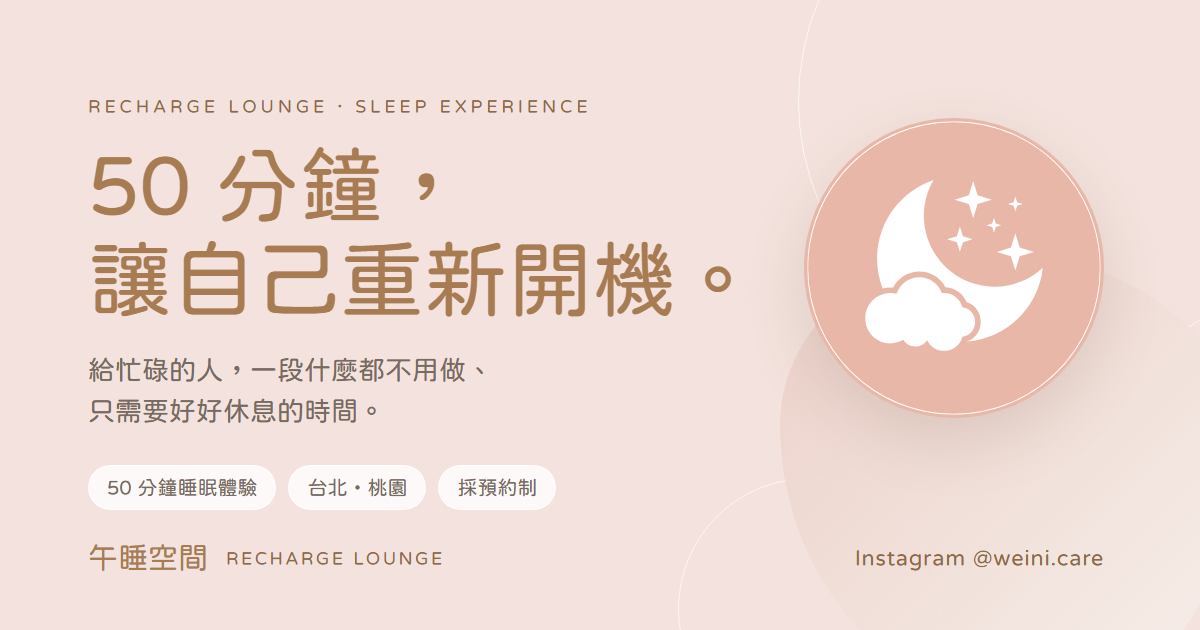
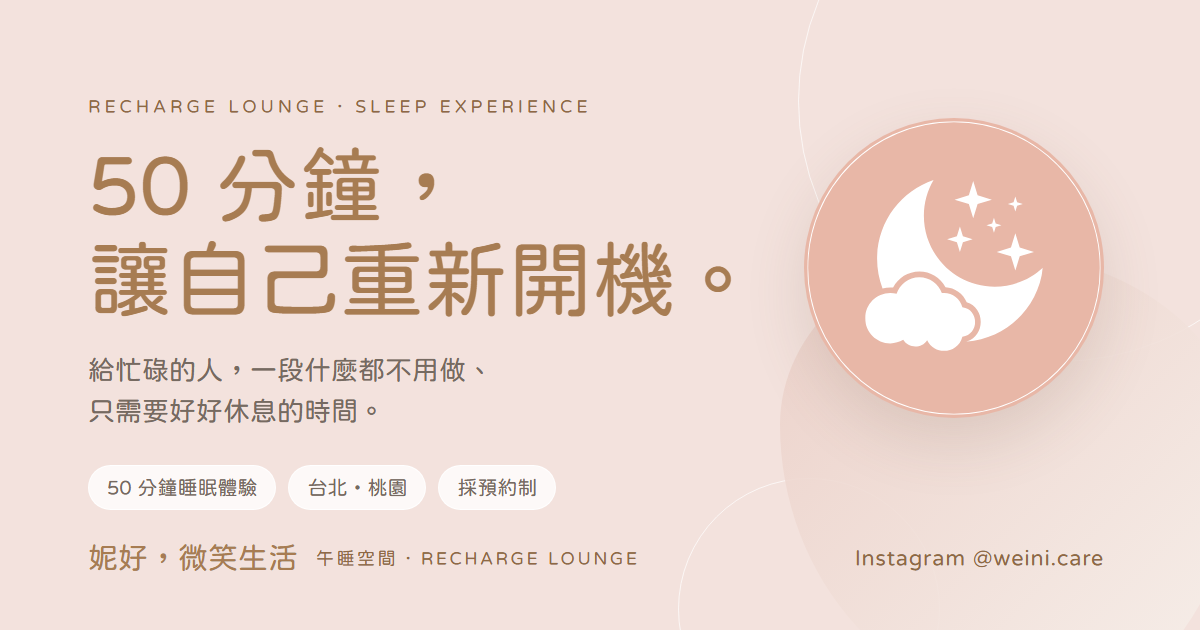
品牌名稱改為「妮好，微笑生活｜午睡空間」
抬頭、title、OG、footer、隱私頁、404、README 與分享圖一併更新

Changed region(s): [[0.0617, 0.8444, 0.5242, 0.9048]]

diff --git a/index.html b/index.html
@@ -3,14 +3,14 @@
 <head>
   <meta charset="utf-8">
   <meta name="viewport" content="width=device-width, initial-scale=1">
-  <title>午睡空間｜Recharge Lounge</title>
-  <meta name="description" content="午睡空間｜50 分鐘沉浸式睡眠體驗。台北・桃園預約制空間，給忙碌的現代人一段真正可以放下工作的休息時間。">
+  <title>妮好，微笑生活｜午睡空間</title>
+  <meta name="description" content="妮好，微笑生活｜午睡空間。50 分鐘沉浸式睡眠體驗。台北・桃園預約制空間，給忙碌的現代人一段真正可以放下工作的休息時間。">
   <meta name="theme-color" content="#F3E2DD">
 
   <!-- Open Graph / 社群分享 -->
   <meta property="og:type" content="website">
   <meta property="og:locale" content="zh_TW">
-  <meta property="og:site_name" content="午睡空間 Recharge Lounge">
+  <meta property="og:site_name" content="妮好，微笑生活｜午睡空間">
   <meta property="og:title" content="午睡空間｜50 分鐘，讓自己重新開機。">
   <meta property="og:description" content="給忙碌的現代人、創業者與專業工作者，一段真正可以把事情放下來的休息時間。台北・桃園，採預約制。">
   <meta property="og:url" content="https://www.weini.tw/">
@@ -34,11 +34,11 @@
 
   <header class="site-header">
     <div class="container nav-bar">
-      <a class="brand" href="#home" aria-label="午睡空間首頁">
+      <a class="brand" href="#home" aria-label="妮好，微笑生活｜午睡空間 首頁">
         <img class="brand-logo" src="assets/images/logo-pink.svg" width="56" height="56" alt="">
         <span class="brand-copy">
-          <strong>午睡空間</strong>
-          <span>RECHARGE LOUNGE</span>
+          <strong>妮好，微笑生活</strong>
+          <span>午睡空間<em> · RECHARGE LOUNGE</em></span>
         </span>
       </a>
 
@@ -585,8 +585,8 @@
     <div class="container">
       <div class="footer-grid">
         <div class="footer-brand">
-          <img class="footer-logo" src="assets/images/logo-white.svg" width="88" height="88" alt="午睡空間 Recharge Lounge" loading="lazy">
-          <strong>午睡空間｜Recharge Lounge</strong>
+          <img class="footer-logo" src="assets/images/logo-white.svg" width="88" height="88" alt="妮好，微笑生活｜午睡空間" loading="lazy">
+          <strong>妮好，微笑生活｜午睡空間</strong>
           <p class="footer-text">50 分鐘的睡眠時光，讓自己重新開機。</p>
         </div>
         <div>
@@ -612,7 +612,7 @@
       <div class="footer-legal">
         <p>午睡空間不是醫療服務，也不是用來治療失眠，不提供醫療診斷或治療。</p>
         <p>本站由巧薇個人經營，內容為一般生活資訊與個人觀察，不構成醫療診斷、治療或專業醫療建議。</p>
-        <p class="copyright">© 2026 午睡空間 Recharge Lounge</p>
+        <p class="copyright">© 2026 妮好，微笑生活｜午睡空間</p>
       </div>
     </div>
   </footer>

diff --git a/privacy.html b/privacy.html
@@ -3,7 +3,7 @@
 <head>
   <meta charset="utf-8">
   <meta name="viewport" content="width=device-width, initial-scale=1">
-  <title>個人資料蒐集告知｜午睡空間</title>
+  <title>個人資料蒐集告知｜妮好，微笑生活｜午睡空間</title>
   <meta name="description" content="午睡空間預約表單與聯絡表單的個人資料蒐集、處理、利用與當事人權利說明。">
   <meta name="robots" content="noindex, follow">
   <meta name="theme-color" content="#F3E2DD">
@@ -19,11 +19,11 @@
 
   <header class="site-header">
     <div class="container nav-bar">
-      <a class="brand" href="index.html" aria-label="回午睡空間首頁">
+      <a class="brand" href="index.html" aria-label="回妮好，微笑生活｜午睡空間首頁">
         <img class="brand-logo" src="assets/images/logo-pink.svg" width="56" height="56" alt="">
         <span class="brand-copy">
-          <strong>午睡空間</strong>
-          <span>RECHARGE LOUNGE</span>
+          <strong>妮好，微笑生活</strong>
+          <span>午睡空間<em> · RECHARGE LOUNGE</em></span>
         </span>
       </a>
       <div class="nav-right">
@@ -40,7 +40,7 @@
     <p>你在午睡空間網站填寫預約表單或聯絡表單時，我們會蒐集你留下的個人資料。依《個人資料保護法》第八條，向你說明以下事項。</p>
 
     <h2>一、蒐集者</h2>
-    <p>午睡空間｜Recharge Lounge，由巧薇個人經營。</p>
+    <p>妮好，微笑生活｜午睡空間，由巧薇個人經營。</p>
 
     <h2>二、蒐集目的</h2>
     <ul>
@@ -99,7 +99,7 @@
       <div class="footer-legal">
         <p>午睡空間不是醫療服務，也不是用來治療失眠，不提供醫療診斷或治療。</p>
         <p>本站由巧薇個人經營，內容為一般生活資訊與個人觀察，不構成醫療診斷、治療或專業醫療建議。</p>
-        <p class="copyright">© 2026 午睡空間 Recharge Lounge ・ <a href="index.html">回首頁</a></p>
+        <p class="copyright">© 2026 妮好，微笑生活｜午睡空間 ・ <a href="index.html">回首頁</a></p>
       </div>
     </div>
   </footer>

diff --git a/assets/css/site.css b/assets/css/site.css
@@ -138,17 +138,23 @@ h1, h2, h3, h4 { font-weight: 400; }
 }
 .brand-copy strong {
   display: block;
-  font-size: 24px;
+  font-size: 22px;
   font-weight: 400;
   color: var(--color-heading);
   line-height: 1.1;
 }
 .brand-copy span {
   display: block;
-  font-size: 11px;
+  font-size: 12px;
   color: var(--color-text-muted);
+  letter-spacing: .06em;
+  margin-top: 3px;
+  white-space: nowrap;
+}
+.brand-copy em {
+  font-style: normal;
+  font-size: 11px;
   letter-spacing: .14em;
-  margin-top: 2px;
 }
 .nav-main { flex: 1 1 auto; display: flex; justify-content: center; }
 .nav-links {
@@ -1086,7 +1092,8 @@ fieldset { border: 0; padding: 0; margin: 0; }
   .brand-logo { width: 44px; height: 44px; }
   .footer-logo { width: 72px; height: 72px; }
   .brand-copy strong { font-size: 19px; }
-  .brand-copy span { display: none; }
+  .brand-copy em { display: none; }
+  .brand-copy span { font-size: 11px; }
   .nav-cta { padding: 9px 13px; font-size: 13px; }
   .hero { padding: 48px 0 96px; }
   .hero .lead { font-size: 17px; }

diff --git a/404.html b/404.html
@@ -3,7 +3,7 @@
 <head>
   <meta charset="utf-8">
   <meta name="viewport" content="width=device-width, initial-scale=1">
-  <title>找不到這一頁｜午睡空間</title>
+  <title>找不到這一頁｜妮好，微笑生活｜午睡空間</title>
   <meta name="robots" content="noindex">
   <meta name="theme-color" content="#F3E2DD">
   <link rel="preconnect" href="https://fonts.googleapis.com">

diff --git a/assets/images/source/og-cover.html b/assets/images/source/og-cover.html
@@ -69,8 +69,8 @@
   </div>
 
   <div class="brand">
-    <strong>午睡空間</strong>
-    <span>RECHARGE LOUNGE</span>
+    <strong>妮好，微笑生活</strong>
+    <span>午睡空間 · RECHARGE LOUNGE</span>
   </div>
   <div class="handle">Instagram @weini.care</div>
 </body>

diff --git a/開發日誌.md b/開發日誌.md
@@ -10,7 +10,13 @@
 
 ### ä»å¤©å®æ
 
-**自訂網域 www.weini.tw（同日稍晚）**
+**品牌名稱改為「妮好，微笑生活｜午睡空間」（同日）**
+- 抬頭改成兩行：主名「妮好，微笑生活」、副名「午睡空間 · RECHARGE LOUNGE」（手機只顯示「午睡空間」）。
+- title、meta description、og:site_name、footer、版權、隱私頁蒐集者、404 標題、README、分享圖一併更新，分享圖已重產。
+- 內文句子如「午睡空間不是醫療服務」維持原樣，那是服務名稱不是品牌名。
+- 注意：Blogger 的部落格標題是「妮好，薇笑人生」（薇），網站用的是巧薇指定的「微笑生活」（微），兩邊不一致，待巧薇決定要不要統一。
+
+**èªè¨ç¶²å www.weini.twï¼åæ¥ç¨æï¼**
 - 巧薇的 weini.tw 原本綁 Blogger，已改成：`www.weini.tw` → 午睡空間（GitHub Pages）、`blog.weini.tw` → Blogger 舊部落格。DNS 在 PChome 買網址代管，兩筆 CNAME 已生效。
 - repo 新增 `CNAME` 檔（www.weini.tw）。首頁、隱私頁、sitemap、robots 的正式網址與 404 的絕對路徑全部改為 www.weini.tw 根目錄。舊的 qiaoweixie.github.io/weini-care/ 會自動轉址。
 - **尚未處理**：不加 www 的 `weini.tw` 目前指到 PChome 停放頁，因為 PChome 介面填不了 A 紀錄。待確認 PChome「類型」下拉有哪些選項，或改用「轉址」欄把 weini.tw 轉到 www.weini.tw。

diff --git a/README.md b/README.md
@@ -1,4 +1,4 @@
-# 午睡空間 Recharge Lounge
+# 妮好，微笑生活｜午睡空間
 
 50 分鐘沉浸式睡眠體驗的品牌官網。台北・桃園，採預約制。純靜態網站，由巧薇經營。
 
